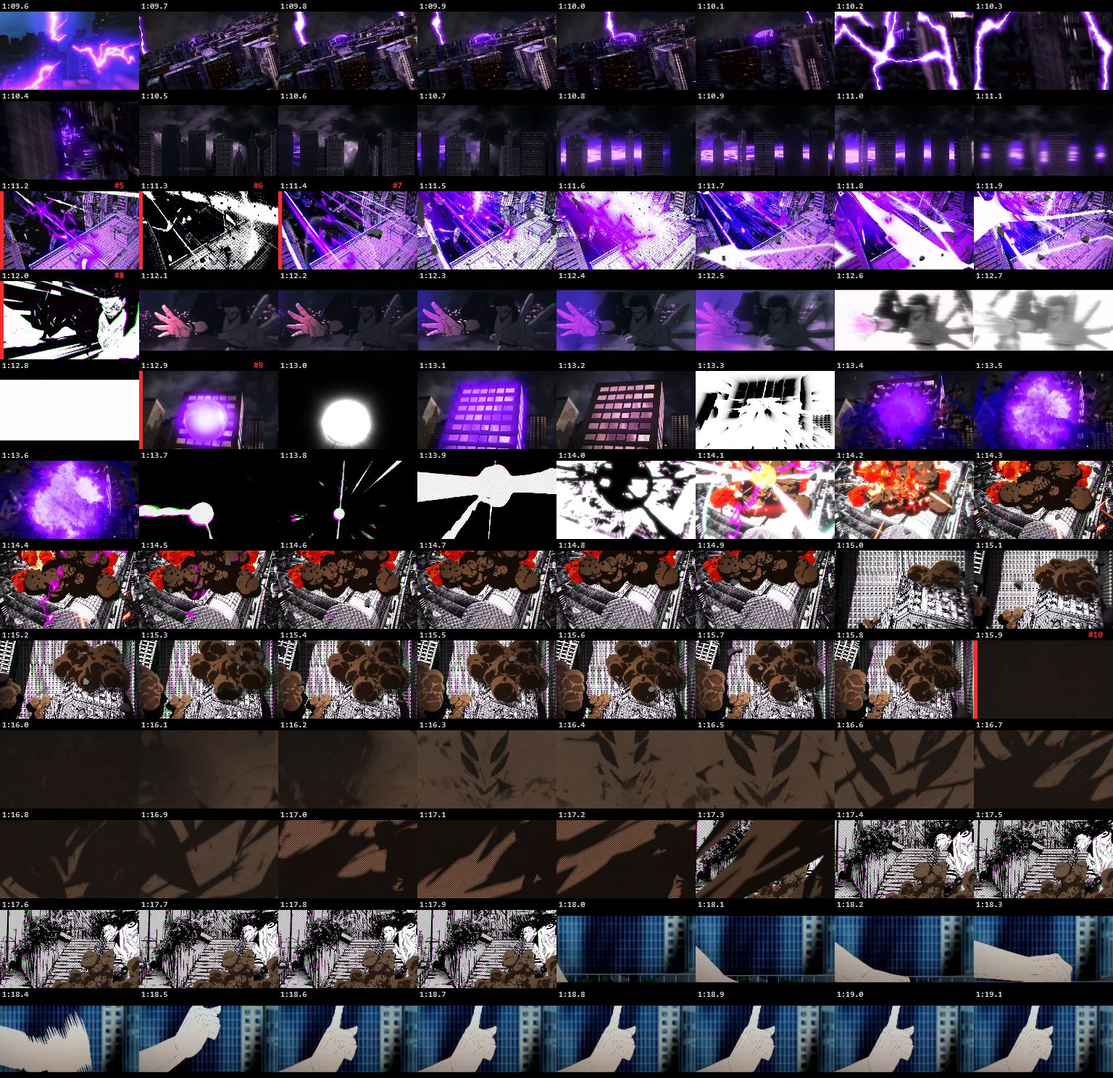
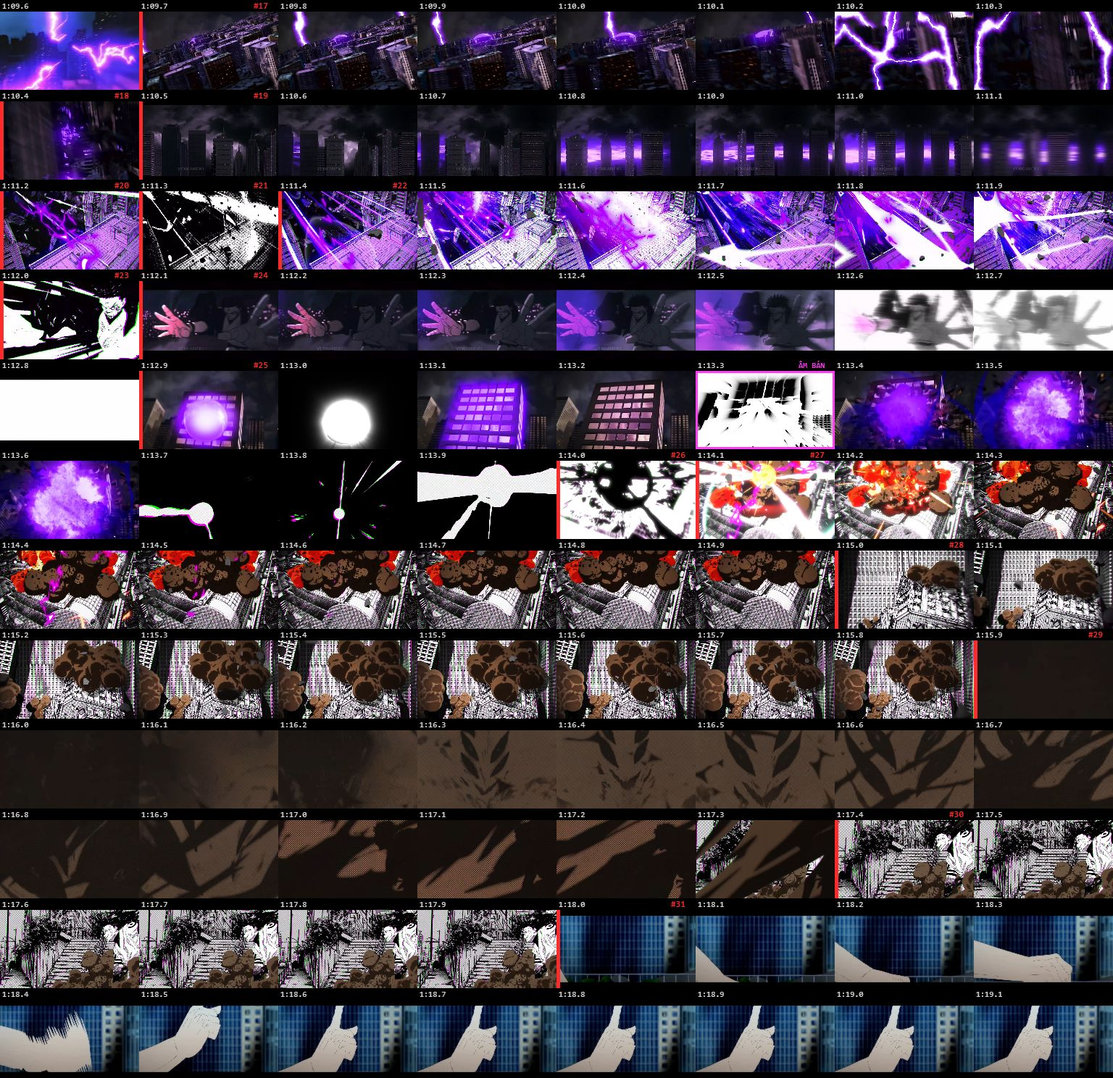
Máy dò chỗ cắt mới (độ giống cấu trúc + khung âm bản, tools/cat-quyet.js chỉnh ngưỡng ngoài máy); cắt lại 3 clip; docs: CineKit.cam (Ver 525) + CineKitFx (Ver 526) đã dựng bên repo game

diff --git a/tools/cat-canh.html b/tools/cat-canh.html
@@ -3,6 +3,7 @@
 <style>body{background:#111;color:#ddd;font:13px/1.4 monospace;padding:12px}pre{white-space:pre-wrap}</style></head>
 <body><pre id="log">Cắt cảnh — chạy qua tools/hoc-clip.js (src, id, a, b, fps trên URL).
 </pre>
+<script src="cat-quyet.js"></script>
 <script>
 // Trang CẮT CẢNH của Meme Anime Lab. Chạy trong Edge/Chrome (kể cả chạy ngầm), máy chủ tools/serve.js.
 // URL: /tools/cat-canh.html?src=videos/x.mp4&id=<id>&a=<giây đầu>&b=<giây cuối>&fps=<khung/giây lấy mẫu>
@@ -47,21 +48,27 @@ async function main() {
   const TW = 192, TH = Math.round(TW * VH / VW), LH = 16, COLS = 8, ROWS = 12, PER = COLS * ROWS;
   const sheets = [];
   const SW = 32, SH = 18, small = mk(SW, SH), sx = small.getContext('2d', { willReadFrequently: true });
-  const frames = []; let prev = null, prev2 = null; const scores = [];
+  // CẤU TRÚC: độ sáng 64x36 chuẩn hoá (trừ trung bình, chia độ lệch) → tương quan giữa 2 khung (ncc) không phụ thuộc màu tối / sáng / tông,
+  //   nên bắt được cắt ở bảng màu tối phẳng (kaiju-b) và không bị nét manga đen trắng đẩy ngưỡng; ncc ÂM = hình đảo đen trắng = khung ÂM BẢN.
+  const NW = 64, NH = 36, nsm = mk(NW, NH), nx = nsm.getContext('2d', { willReadFrequently: true });
+  const norm = () => { nx.drawImage(v, 0, 0, NW, NH); const e = nx.getImageData(0, 0, NW, NH).data, z = new Float32Array(NW * NH); let m = 0;
+    for (let i = 0; i < z.length; i++) { z[i] = 0.299 * e[i * 4] + 0.587 * e[i * 4 + 1] + 0.114 * e[i * 4 + 2]; m += z[i]; } m /= z.length;
+    let s = 0; for (let i = 0; i < z.length; i++) { z[i] -= m; s += z[i] * z[i]; } s = Math.sqrt(s / z.length); if (s > 1e-6) for (let i = 0; i < z.length; i++) z[i] /= s; return { z, sd: s / 255 }; };
+  const ncc = (a, b) => { if (!a || !b || a.sd < 0.03 || b.sd < 0.03) return null; let c = 0; for (let i = 0; i < a.z.length; i++) c += a.z[i] * b.z[i]; return c / a.z.length; };   // null = khung phẳng (trắng / đen xoá)
+  const frames = []; let prev = null, prev2 = null;
   for (let k = 0; k < n; k++) {
     const t = A + k / FPS; await seek(t);
     sx.drawImage(v, 0, 0, SW, SH); const d = sx.getImageData(0, 0, SW, SH).data;
-    const lum = new Float32Array(SW * SH), hist = new Float32Array(16); let L = 0;
-    for (let i = 0; i < SW * SH; i++) { const y = (0.299 * d[i * 4] + 0.587 * d[i * 4 + 1] + 0.114 * d[i * 4 + 2]) / 255; lum[i] = y; L += y; hist[Math.min(15, y * 16 | 0)]++; }
+    const hist = new Float32Array(16); let L = 0;
+    for (let i = 0; i < SW * SH; i++) { const y = (0.299 * d[i * 4] + 0.587 * d[i * 4 + 1] + 0.114 * d[i * 4 + 2]) / 255; L += y; hist[Math.min(15, y * 16 | 0)]++; }
     L /= SW * SH; for (let i = 0; i < 16; i++) hist[i] /= SW * SH;
-    const cur = { d: new Uint8ClampedArray(d), hist, L };
+    const cur = { d: new Uint8ClampedArray(d), hist, L, N: norm() };
     let score = 0;
     if (prev) { let md = 0; for (let i = 0; i < d.length; i += 4) md += Math.abs(d[i] - prev.d[i]) + Math.abs(d[i + 1] - prev.d[i + 1]) + Math.abs(d[i + 2] - prev.d[i + 2]);
       md /= (SW * SH * 3 * 255); let hd = 0; for (let i = 0; i < 16; i++) hd += Math.abs(hist[i] - prev.hist[i]); hd /= 2; score = 0.5 * md + 0.5 * hd; }
-    const recent = scores.slice(-24).sort((a, b) => a - b), med = recent.length ? recent[recent.length >> 1] : 0;
-    const cut = k > 0 && score > Math.max(0.2, 3.2 * med);
-    frames.push({ t: r2(t), score: r2(score), luma: r2(L), cut, flash: false, back: prev2 });
-    scores.push(score); prev2 = prev; prev = cur;
+    const c1 = prev ? ncc(cur.N, prev.N) : 1, c2 = prev2 ? ncc(cur.N, prev2.N) : 1;
+    frames.push({ t: r2(t), score: r2(score), luma: r2(L), sd: r2(cur.N.sd), c1: c1 == null ? null : r2(c1), c2: c2 == null ? null : r2(c2), cut: false, flash: false, neg: false });
+    prev2 = prev; prev = cur;
     // vẽ khung vào bảng
     const si = Math.floor(k / PER), j = k % PER;
     if (!sheets[si]) { const rows = Math.min(ROWS, Math.ceil((n - si * PER) / COLS)); const c = mk(COLS * TW, rows * (TH + LH)); const g = c.getContext('2d'); g.fillStyle = '#000'; g.fillRect(0, 0, c.width, c.height); sheets[si] = c; }
@@ -70,18 +77,7 @@ async function main() {
     g.fillStyle = '#ddd'; g.font = '11px monospace'; g.fillText(fmt(t), x + 3, y + 12);
     if (k % 30 === 0) log(`khung ${k}/${n}`);
   }
-  // khung loé: 2 lần "cắt" liền nhau mà khung sau giống khung trước-nữa → là khung impact / loé, không phải cắt máy
-  //   (loé có thể dài 1–3 khung mẫu: cắt ở k, cắt lại ở k+m, khung k+m giống khung k-1, các khung giữa sáng/tối hẳn)
-  for (let k = 1; k < frames.length - 1; k++) {
-    if (!frames[k].cut) continue;
-    for (let m = 1; m <= 3 && k + m < frames.length; m++) {
-      if (!frames[k + m].cut) continue;
-      const a = frames[k - 1], c = frames[k + m], mid = frames.slice(k, k + m);
-      if (Math.abs(a.luma - c.luma) < 0.08 && mid.every(f => Math.abs(f.luma - a.luma) > 0.15)) { frames[k].cut = false; frames[k + m].cut = false; mid.forEach(f => f.flash = true); }
-      break;
-    }
-  }
-  frames.forEach(f => delete f.back);
+  CatQuyet.decide(frames);   // tools/cat-quyet.js: cắt máy / loé / âm bản (chỉnh ngưỡng ngoài máy bằng Node trên data.json)
   // cảnh
   const shots = []; let s0 = A;
   for (let k = 1; k < frames.length; k++) if (frames[k].cut) { shots.push({ t0: s0, t1: frames[k].t }); s0 = frames[k].t; }
@@ -90,13 +86,14 @@ async function main() {
   let shotNo = 1;
   frames.forEach((f, k) => {
     if (f.cut) shotNo++;
-    if (!(f.cut || f.flash || k === 0)) return;
+    if (!(f.cut || f.flash || f.neg || k === 0)) return;
     const si = Math.floor(k / PER), j = k % PER, g = sheets[si].getContext('2d'), x = (j % COLS) * TW, y = Math.floor(j / COLS) * (TH + LH);
-    if (f.flash) { g.strokeStyle = '#ffd400'; g.lineWidth = 3; g.strokeRect(x + 1.5, y + LH + 1.5, TW - 3, TH - 3); g.fillStyle = '#ffd400'; g.font = 'bold 11px monospace'; g.fillText('FLASH', x + TW - 42, y + 12); }
+    if (f.neg) { g.strokeStyle = '#ff3df5'; g.lineWidth = 3; g.strokeRect(x + 1.5, y + LH + 1.5, TW - 3, TH - 3); g.fillStyle = '#ff3df5'; g.font = 'bold 11px monospace'; g.fillText('ÂM BẢN', x + TW - 50, y + 12); }
+    else if (f.flash) { g.strokeStyle = '#ffd400'; g.lineWidth = 3; g.strokeRect(x + 1.5, y + LH + 1.5, TW - 3, TH - 3); g.fillStyle = '#ffd400'; g.font = 'bold 11px monospace'; g.fillText('FLASH', x + TW - 42, y + 12); }
     else { g.fillStyle = '#ff2a2a'; g.fillRect(x, y + LH, 5, TH); g.font = 'bold 12px monospace'; g.fillText('#' + shotNo, x + TW - 34, y + 12); }
   });
   for (let i = 0; i < sheets.length; i++) await save(`sheet-${String(i + 1).padStart(2, '0')}.jpg`, await toBlob(sheets[i]));
-  log(`${shots.length} cảnh, ${frames.filter(f => f.flash).length} khung loé, ${sheets.length} bảng khung`);
+  log(`${shots.length} cảnh, ${frames.filter(f => f.flash).length} khung loé, ${frames.filter(f => f.neg).length} âm bản, ${sheets.length} bảng khung`);
 
   // ---------- bảng cảnh: đầu / giữa / cuối ----------
   const QW = 320, QH = Math.round(QW * VH / VW), LW = 150, PERS = 10;
@@ -168,8 +165,8 @@ async function main() {
   } catch (e) { log('không đọc được tiếng: ' + e.message); audio = { error: String(e.message) }; }
 
   await save('data.json', JSON.stringify({ id: ID, src: SRC, a: A, b: r2(B), fps: FPS, video: { w: VW, h: VH, dur: r2(dur) }, shots,
-    flashes: frames.filter(f => f.flash).map(f => f.t), frames: frames.map(f => [f.t, f.score, f.luma]), frameCols: ['t', 'score', 'luma'], audio }, null, 0));
-  window.__done = `OK ${shots.length} cảnh · ${frames.length} khung · ${sheets.length} bảng khung · flash ${frames.filter(f => f.flash).length} · onset ${audio && audio.onsets ? audio.onsets.length : '-'} · nhịp ${audio && audio.nhip ? audio.nhip.length : '-'} · lặng ${audio && audio.lang ? audio.lang.length : '-'}`;
+    flashes: frames.filter(f => f.flash).map(f => f.t), negs: frames.filter(f => f.neg).map(f => f.t), frames: frames.map(f => [f.t, f.score, f.luma, f.sd, f.c1, f.c2]), frameCols: ['t', 'score', 'luma', 'sd', 'c1', 'c2'], audio }, null, 0));
+  window.__done = `OK ${shots.length} cảnh · ${frames.length} khung · ${sheets.length} bảng khung · flash ${frames.filter(f => f.flash).length} · âm bản ${frames.filter(f => f.neg).length} · onset ${audio && audio.onsets ? audio.onsets.length : '-'} · nhịp ${audio && audio.nhip ? audio.nhip.length : '-'} · lặng ${audio && audio.lang ? audio.lang.length : '-'}`;
   log(window.__done);
 }
 main().catch(e => { window.__done = 'ERR ' + (e && e.message || e); log(window.__done); });

diff --git a/tools/cat-quyet.js b/tools/cat-quyet.js
@@ -1,0 +1,64 @@
+// Quyết định CẮT MÁY / KHUNG LOÉ / KHUNG ÂM BẢN từ đặc trưng từng khung — dùng chung: trang cat-canh.html (trình duyệt) + Node (chỉnh ngưỡng
+// ngoài máy trên data.json đã lưu: node tools/cat-quyet.js clips/<id>/data.json [giây cắt đúng, phẩy cách] → in khớp / sót / thừa).
+// Đặc trưng mỗi khung f: score (khác màu + khác histogram với khung trước, 0–1), luma (độ sáng TB), sd (độ tương phản),
+//   c1 / c2 = tương quan CẤU TRÚC với khung trước / trước-nữa (-1..1; null = khung phẳng như trắng xoá / đen xoá).
+// Kết quả gắn vào f: cut (khung đầu cảnh mới), flash (khung loé sáng/tối 1–3 khung), neg (khung ÂM BẢN: hình đảo đen trắng).
+(function (root) {
+  const P = {
+    colMin: 0.2, colK: 3.2,      // luật cũ theo màu: score > max(colMin, colK × trung vị 24 khung trước)
+    strAbs: 0.15, strDrop: 0.2, strSc: 0.05,    // luật cấu trúc: c1 < strAbs (hình gần như không còn giống), thấp hơn trung vị c1 24 khung trước ≥ strDrop
+                                 //   (anime vẽ 2–3 khung 1 hình nên trong 1 cảnh c1 nhảy 1 ↔ 0.2–0.5; đoạn hỗn loạn như nổ thì trung vị thấp → không báo nhầm), và màu cũng đổi (score > strSc)
+    settle: 0.3,                 // cắt thật thì hình mới ỔN ĐỊNH ngay: c1 của 1 trong 2 khung sau > settle (đoạn hỗn loạn — nổ, xoáy — khung nào cũng khác → không báo)
+    colStr: 0.6,                 // luật màu bị CHẶN khi cấu trúc vẫn giống (c1 ≥ colStr): chỉ đổi ánh sáng / chớp, cùng 1 shot (fight-1 mặt Sukuna 1:21)
+    negMax: -0.2,                // âm bản: c1 < negMax (đảo ngược khung trước) VÀ khung sau lật về (c1 sau < negMax hoặc c2 sau > sameShot)
+    sameShot: 0.5,               // khung sau âm bản mà c2 > sameShot → vẫn cảnh cũ (không phải cắt)
+  };
+  const med = a => { if (!a.length) return 0; const s = a.slice().sort((x, y) => x - y); return s[s.length >> 1]; };
+  function decide(frames, p) {
+    p = Object.assign({}, P, p || {});
+    const sc = [], cs = [];
+    for (let k = 0; k < frames.length; k++) {
+      const f = frames[k]; f.cut = false; f.flash = false; f.neg = false;
+      if (k === 0) { sc.push(0); cs.push(1); continue; }
+      const mc = med(sc.slice(-24)), mcc = med(cs.slice(-24));
+      const n1 = frames[k + 1], n2 = frames[k + 2];
+      const settled = !n1 || [n1, n2].some(x => x && (x.c1 == null || x.c1 > p.settle));
+      const byCol = f.score > Math.max(p.colMin, p.colK * mc) && (f.c1 == null || f.c1 < p.colStr);
+      const byStr = f.c1 != null && f.c1 < p.strAbs && mcc - f.c1 >= p.strDrop && f.score > p.strSc && settled;
+      if (f.c1 != null && f.c1 < p.negMax && n1 && n1.c1 != null && (n1.c1 < p.negMax || (n1.c2 != null && n1.c2 > p.sameShot))) f.neg = true;
+      // khung ngay sau âm bản: so với khung TRƯỚC âm bản (c2) — giống thì vẫn cảnh cũ
+      const pv = frames[k - 1];
+      if (pv.neg) f.cut = !(f.c2 != null && f.c2 > p.sameShot) && (f.c2 != null ? f.c2 < p.strAbs : byCol);
+      else f.cut = byCol || byStr;
+      if (f.neg) f.cut = false;   // âm bản không tính là cắt máy
+      sc.push(f.score); cs.push(f.c1 == null ? mcc : f.c1);
+    }
+    // khung loé (luật cũ): cắt ở k, cắt lại ở k+m (m ≤ 3), khung k+m giống khung k-1 về độ sáng, các khung giữa sáng / tối hẳn
+    for (let k = 1; k < frames.length - 1; k++) {
+      if (!frames[k].cut) continue;
+      for (let m = 1; m <= 3 && k + m < frames.length; m++) {
+        if (!frames[k + m].cut) continue;
+        const a = frames[k - 1], c = frames[k + m], mid = frames.slice(k, k + m);
+        if (Math.abs(a.luma - c.luma) < 0.08 && mid.every(f => Math.abs(f.luma - a.luma) > 0.15)) { frames[k].cut = false; frames[k + m].cut = false; mid.forEach(f => f.flash = true); }
+        break;
+      }
+    }
+    return frames;
+  }
+  const api = { P, decide };
+  if (typeof module !== 'undefined' && module.exports) module.exports = api; else root.CatQuyet = api;
+
+  // ---- Node: chỉnh ngưỡng trên data.json đã lưu ----
+  if (typeof require !== 'undefined' && require.main === module) {
+    const fs = require('fs'), [file, truth, pj] = process.argv.slice(2);
+    const D = JSON.parse(fs.readFileSync(file, 'utf8')), cols = D.frameCols;
+    const fr = D.frames.map(r => Object.fromEntries(cols.map((c, i) => [c, r[i]])));
+    if (fr[0].c1 === undefined) { console.error('data.json cũ (chưa có c1/c2) — chạy lại hoc-clip.js cho clip này'); process.exit(1); }
+    decide(fr, pj ? JSON.parse(pj) : null);
+    const cuts = fr.filter(f => f.cut).map(f => f.t), negs = fr.filter(f => f.neg).map(f => f.t), fl = fr.filter(f => f.flash).map(f => f.t);
+    console.log(`cắt ${cuts.length}: ${cuts.join(' ')}\nâm bản ${negs.length}: ${negs.join(' ')}\nloé ${fl.length}: ${fl.join(' ')}`);
+    if (truth) { const T = truth.split(',').map(Number), near = (x, L) => L.some(y => Math.abs(x - y) <= 0.11);
+      const ok = T.filter(x => near(x, cuts)), miss = T.filter(x => !near(x, cuts)), extra = cuts.filter(x => !near(x, T));
+      console.log(`ĐÚNG ${ok.length}/${T.length} · sót: ${miss.join(' ') || '-'} · thừa ${extra.length}: ${extra.join(' ') || '-'}`); }
+  }
+})(typeof window !== 'undefined' ? window : globalThis);

diff --git a/playbook/cong-thuc.md b/playbook/cong-thuc.md
@@ -8,7 +8,8 @@ Code viết theo API THẬT của `chaos-battle-lab/js/cine-kit.js` (đã soát 
 sprite `{..., white, smear:{dx,dy,dz,n}, aura:{col,k,preset}}`, `K.twos(t)`, `K.seg/lerp/clamp/hash`, `K.EASE.{lin,eio,eout,ein,eout3,ein3}`.
 Phim 2D (kiểu `film-fin1.js` / `film-l2pro.js`: `shots:[{t0:0,t1:DUR,a:{}}]`, mỗi cảnh tự vẽ với `cam(g,cx,cy,z,rot)` riêng) dùng được hết phần
 `impact / shake / screen / post` bên dưới; phần `shots` chỉ áp cho phim 2.5D.
-Mục đánh dấu **CHƯA CÓ — việc chờ** = cine-kit chưa có hàm, phải tự vẽ trong phim hoặc gom vào `CineKit.cam.*` / `js/vfx-gl.js` (xem cuối file).
+**LÀM SẴN (9/11/2026):** `chaos-battle-lab/js/cine-cam.js` → `CineKit.cam.*` (playCineKit tự tải) — mục nào có dòng "→ đã có" thì GỌI HÀM, khỏi chép code mẫu.
+Mục đánh dấu **CHƯA CÓ — việc chờ** = chưa có hàm, phải tự vẽ trong phim hoặc dựng thêm trong `js/vfx-gl.js` (xem cuối file).
 
 Mẫu chung cho các mốc thời gian (dùng ở nhiều mục):
 ```js
@@ -19,6 +20,7 @@ const hit=(t,a,amp,d)=>(t>=a&&t<a+d)?amp*(1-(t-a)/d):0;      // rung tắt dần
 ---
 
 ## 1. Khung ÂM BẢN 1 khung lúc va chạm / chuyển cảnh
+→ đã có: `impact: CineKit.cam.negFrames([giây…], 0.07, 'inv', [đòn mạnh → 'red' rồi 'inv'])`.
 Mục đích: đánh dấu cú va chạm / cắt máy bằng 1 khung đen-trắng đảo màu thay cho loé trắng. Mắt thấy "giật", não đọc là "trúng".
 Nguồn: `clips/fight-1` 1:07.9, 1:08.9, 1:11.3, 1:12.0, 1:13.3, 1:14.0, 1:25.8, 1:26.5, 1:31.8, 1:37.4, 1:48.3, 1:49.0 (12 lần / 60s).
 Nhịp: dài 1 khung vẽ = ~1/12s (0.06–0.08s). Dày nhất 1 cái / 0.5–1s, trung bình 1 cái / 5s. Hay đặt NGAY ĐẦU shot mới (khung đầu), hoặc khung cuối shot trước.
@@ -30,6 +32,7 @@ shake:t=> Math.max(...NEG.map(a=>hit(t,a,10,0.4)), 0),
 ```
 
 ## 2. CO LẠI RỒI BÙNG (đếm ngược trước vụ nổ lớn)
+→ đã có: bước c `C.implode(F,t,T.c)` · bước d `C.negFrames([T.c+0.3])` · bước e–f `C.birdToWorm(T.e,{tx,tz})` (máy).
 Mục đích: cho khán giả "hít vào" trước khi nổ — năng lượng thu về 1 điểm rồi mới bung, nổ to gấp đôi cảm giác.
 Nguồn: `clips/fight-1` 1:12.9–1:15.9 (Hollow Purple vào toà nhà).
 Nhịp (tổng ~3s):
@@ -53,9 +56,10 @@ world(F,t){ K.smoke(F,{x:0,z:0,y:0,t0:T.e,n:26,spread:260,rise:180,life:1.6,size
   K.debris(F,{x:0,z:0,y:40,t0:T.e,n:30,speed:520,size:14,life:1.4,seed:3}); },
 post(F,t){ return {shocks:t>=T.e&&t<T.e+0.6?[{x:0,y:0,z:0,r:40+600*K.seg(t,T.e,T.e+0.6),w:40,str:26*(1-K.seg(t,T.e,T.e+0.6))}]:[]}; },
 ```
-Lửa đỏ-cam đặc kiểu manga (khối có viền) → **CHƯA CÓ**: `K.smoke` chỉ có khói mềm; tạm dùng `tint` nâu + `K.flash(F,a,'rgb(255,90,30)')` mờ.
+Lửa đỏ-cam đặc kiểu manga (khối có viền) → **đã có** `CineKitFx.blast(F,{x,y,z,t0,size:170})` (js/vfx-manga.js).
 
 ## 3. WIPE bằng MÀU / BÓNG / THÂN QUÁI / MẢNH VỠ (chuyển cảnh không cắt cứng)
+→ đã có: `C.wipeBlob(F,t,a,0.2,col)` · `C.wipeLeaves(F,t,a,0.2,{col,dir})` (thân quái lướt: đổi col + d) — cả 2 che kín đúng a + d/2 = chỗ cắt máy.
 Mục đích: nối 2 shot bằng 1 vật che kín khung trong 0.1–0.3s, vừa đổi cảnh vừa giữ đà.
 Nguồn:
 - Màu nhấn phủ kín 0.2s (vết loang tím tràn từ góc): `clips/fight-1` 1:04.5.
@@ -76,6 +80,7 @@ Bóng lá cây / thân quái lướt: dùng 1 ảnh tối (silhouette) vẽ tron
 Bóng lá đổ trên nền nâu (halftone) → **CHƯA CÓ** ảnh/hàm; tạm vẽ vài hình lá đen alpha 0.8 bằng path.
 
 ## 4. KẾT ẤN ĐỐI XỨNG + MẶT CHIA ĐÔI
+→ đã có: máy `C.mirror(t0,{A,B,cam,flip})` · mặt chia đôi `panels: t=>C.splitFace(t,a,1.0,camA,camB)` + `C.splitTint(F,t,a,1.0)` trong screen.
 Mục đích: 2 phe ra chiêu "soi gương" nhau → khán giả so sánh trực tiếp. Mỗi phe 1 MÀU riêng giữ suốt phim (Gojo xanh lam/tím, Sukuna đỏ).
 Nguồn: `clips/fight-1` 1:43.6–1:45.2 (A kết ấn 0.7s: chữ thập ngắm đỏ → xoáy đỏ · wipe bóng lá 0.2s · B cùng bố cục, chữ thập tím → xoáy xanh 0.7s);
 mặt chia đôi 1:24.0–1:25.0 (1.0s, nửa trái Sukuna nền đỏ, nửa phải Gojo nền xanh, vạch dọc giữa).
@@ -90,9 +95,10 @@ panels:t=> (t>=T.split&&t<T.split+1.0) ? [
 screen(F,t){ if(t>=T.split&&t<T.split+1.0){ const g=F.g; g.save(); g.globalCompositeOperation='multiply';
   g.fillStyle='rgba(255,60,50,0.35)'; g.fillRect(0,0,F.VW/2,F.VH); g.fillStyle='rgba(60,140,255,0.35)'; g.fillRect(F.VW/2,0,F.VW/2,F.VH); g.restore(); } },
 ```
-Chữ thập ngắm (2 vạch + vòng tròn) vẽ được bằng path trong `screen`. **XOÁY MÀU** sau lưng (vòng xoắn đỏ / xanh-hồng quay) → **CHƯA CÓ** — việc chờ cho `vfx-gl.js`.
+Chữ thập ngắm (2 vạch + vòng tròn) vẽ được bằng path trong `screen`. XOÁY MÀU sau lưng → **đã có** `CineKitFx.swirl(F,t,{colA:'255,30,40',colB:'90,170,255'})` — vẽ TRƯỚC nhân vật.
 
 ## 5. MATCH CUT đổi màu mắt (cùng bố cục mặt)
+→ đã có máy: `C.pushIn(t0,{d:1.6})` 2 lần cùng tham số (đổi mắt ở shot 2).
 Mục đích: báo "đổi phe / thức tỉnh" mà không cần thoại — giữ nguyên bố cục, chỉ đổi màu điểm sáng.
 Nguồn: `clips/fight-1` 1:20.8–1:24.0 — cận mặt mắt ĐỎ, máy đẩy vào rất chậm 1.6s (ánh sáng chớp liên tục) → nhoè 0.1s → cùng khung, mắt XANH 1.6s → mặt chia đôi (mục 4).
 ```js
@@ -105,6 +111,7 @@ screen(F,t){ if(Math.abs(t-(T.m+1.6))<0.05) K.flash(F,0.9,'#fff'); },   // nhoè
 Chớp sáng nền liên tục (máy dò tách sai thành 6 cảnh) = `K.flash(F, 0.15*hash(Math.floor(t*12)), '#cfe4ff')`.
 
 ## 6. ĐƯỜNG HẦM TỐC ĐỘ khi bị đánh văng xa
+→ đã có: `C.speedTunnel(F,t,a,0.8)` (zoom hậu kỳ vẫn tự thêm trong post nếu muốn).
 Mục đích: nối "trúng đòn" với "bay ra toàn cảnh thành phố" — 0.8s tia toả tâm + trắng dần, rồi cắt sang toàn cảnh sáng.
 Nguồn: `clips/fight-1` 1:28.8–1:29.6 (khung kính vỡ 0.5s trước đó → đường hầm 0.8s → toàn cảnh thành phố ban ngày 1.1s, toà nhà + người bay).
 ```js
@@ -116,6 +123,7 @@ post(F,t){ return (t>=T.tun&&t<T.tun+0.8)?{zoom:{sx:F.VW/2,sy:F.VH/2,k:1+0.4*K.s
 ```
 
 ## 7. TỈ LỆ NHẢY CỰC ĐOAN trong đánh tay đôi
+→ đã có máy: `C.scaleJump(t0,{tx,ty,tz,steps})` (mặc định đúng chuỗi fight-1 G) · `C.orbit(t0,{cut:0.15})` · `C.chargeFollow` · ease `brake`.
 Mục đích: combo cận chiến đọc rõ + có lực: xen RẤT XA (nhân vật nhỏ, nền trắng trống) với CỰC CẬN (nắm đấm che nửa khung).
 Nguồn: `clips/fight-1` 1:55.2–2:00.0 (fan-animation đen trắng). Chuỗi: xa 0.2 → cận mặt 0.2 → rất xa 0.8 → đối thủ lao 0.3 → nắm đấm che khung 0.3
 → đá cận + tia tốc độ 0.2 → combo máy XOAY quanh 2 người 1.0 → vật 0.8 → đập xuống: SMEAR DỌC 0.5 → đất vỡ 0.3.
@@ -128,9 +136,10 @@ shots:[ {t0:a,     t1:a+0.2, a:{tx:0,ty:80,dist:1400,pitch:8}},                 
         {t0:a+1.7, t1:a+2.7, a:{tx:0,ty:90,dist:320,yaw:-60},b:{yaw:60},ease:'lin'} ],   // xoay quanh lúc combo
 world(F,t){ K.sprite(F,{img:F.I.gojo,x:X(t),z:0,y:Y(t),h:100,smear:t>=T.slam&&t<T.slam+0.15?{dx:0,dy:120,dz:0,n:6}:null}); },
 ```
-`smear` của sprite chỉ là bóng mờ lặp theo vận tốc. SMEAR DỌC thật (ảnh kéo thành vệt sọc) → **CHƯA CÓ** — việc chờ "lưới biến dạng" trong `vfx-gl.js`.
+`smear` của sprite chỉ là bóng mờ lặp. SMEAR DỌC thật (ảnh kéo thành vệt sọc) → **đã có** `CineKitFx.smear(F,F.I.gojo,x,y,w,h,{dy:260})`.
 
 ## 8. BỘ BA GIỚI THIỆU QUÁI KHỔNG LỒ
+→ đã có máy: `C.slideAlong(t0,{ty,ty1})` → `C.wormHold(t0+2.75)` → cận mặt người (shot thường) · kaiju-b: `C.pushIn(t0,{d:2.9})`.
 Mục đích: cho thấy quái TO + đáng sợ trong 5–6s, không cần hiệu ứng.
 Nguồn A — `clips/kaiju-a` (Avengers): cực cận lướt dọc thân 2.75s → toàn cảnh GÓC GIUN, 2 toà nhà kẹp 2 mép, quái nhỏ trên trời, ĐỨNG YÊN 2.0s → cận mặt người ngước 0.25s+.
 Nguồn B — `clips/kaiju-b` (Cửu Vĩ): cận mặt + MẮT BẬT SÁNG 1.5s → toàn cảnh giữa 2 dãy nhà, trăng sau lưng, đẩy vào rất chậm 2.9s → dân chạy ở tiền cảnh 0.3s.
@@ -142,9 +151,10 @@ world(F,t){ K.sprite(F,{img:F.I.monster,x:0,z:600,y:250,h:900,shadow:false}); /*
 screen(F,t){ if(t<2.75) K.flash(F,0.25,'#fff'); K.vignette(F,0.6); },   // ngược sáng: khối tối + viền sáng
 ```
 Mắt bật sáng (B): sprite quái + 2 đốm glow đỏ hiện ở giây 0.7 của shot, `a` tăng trong 0.1s.
-Ngược sáng thật (quái thành khối tối có viền sáng) → tạm dùng `K.tinted` màu tối + aura trắng mảnh; làm đúng → **CHƯA CÓ** (rim light trong `vfx-gl.js`).
+Ngược sáng thật (quái thành khối tối có viền sáng) → **đã có** `CineKitFx.rimLight(F,F.I.friend,x,y,w,h,{col:'255,60,40'})` (bỏ `dir` = sáng bao quanh, `dir:-90` = sáng từ trên).
 
 ## 9. TĨNH TRƯỚC PHÁ + KẾT BẰNG HẬU QUẢ
+→ máy: shot thường (đứng yên, cùng tham số 2 shot); hậu quả `C.wormHold`/shot đứng yên 2.8s.
 Mục đích: cho thấy vật còn nguyên trong 1 nhịp ngắn → khán giả kịp "thương" nó → phá. Kết đoạn phá huỷ bằng shot hậu quả đứng yên dài để lắng.
 Nguồn: `clips/kaiju-b` 1:16.3 (tháp canh đứng trước trăng tròn, đứng yên 0.4s) → 1:16.7 đuôi quét qua, tháp gãy 1.1s (cùng máy) … 1:20.2–1:23.0 đống đổ nát, người nhỏ li ti, đứng yên 2.8s.
 ```js
@@ -156,6 +166,7 @@ shake:t=>hit(t,T.still+0.55,9,0.6),
 ```
 
 ## 10. KHOẢNG THỞ sau vụ nổ lớn
+→ đã có: `C.restBeat(F,t,a,1.5)` (nền nâu + bóng lá + viền tối; halftone vẫn chưa có).
 Mục đích: sau đỉnh cao trào phải có 1.4–1.6s TĨNH, tông trầm, không nhân vật rõ mặt → reset mắt người xem trước đoạn mới.
 Nguồn: `clips/fight-1` 1:15.9–1:17.3 (sau nổ Hollow Purple) và 1:38.2–1:39.7 (sau nổ đỏ): nền nâu sẫm + bóng lá cây đung đưa chậm, hạt halftone.
 Đoạn sau mở bằng shot đứng yên, nhân vật bình thản (giơ ngón cái / đứng nhìn) — tương phản với nổ.
@@ -165,18 +176,18 @@ screen(F,t){ if(t>=T.rest&&t<T.rest+1.5){ const g=F.g; K.flash(F,1,'#3a2a1e');
     g.beginPath(); g.ellipse(x,y,90+60*K.hash(s+2),22,K.hash(s+3)*3,0,Math.PI*2); g.fill(); }   // bóng lá
   K.vignette(F,0.7); } },
 ```
-Lớp halftone (chấm manga) trên nền → **CHƯA CÓ** — việc chờ (`post` shader).
+Lớp halftone → **đã có** `CineKitFx.halftone(F,{mode:'luma',dot:5,paper:'#f4f1ea'})`; đen trắng giữ 1 màu nhấn → `CineKitFx.mangaBW(F,{keep:'#2878ff'})` (gọi CUỐI `def.screen`).
 
 ---
 
-## Chưa có trong cine-kit — việc chờ (gom theo nơi nên dựng)
-| thiếu | dùng ở mục | nên dựng ở |
+## Hiệu ứng manga — `CineKitFx` (repo game `js/vfx-manga.js`, Ver 526, canvas 2D, chạy cả PC / Mac / xuất video offline)
+Trong file phim dùng `window.CineKitFx` (`CineKit.fx` gắn chậm ~20ms). Gọi trong `def.screen`; toạ độ = đơn vị logic của phim.
+| hàm | dùng ở mục | ms/khung 1280×720 (CPU, chậm nhất) |
 |---|---|---|
-| SMEAR DỌC thật (ảnh kéo thành vệt sọc khi đập / lao) | 7 | `vfx-gl.js` — lưới biến dạng ảnh 2D (đã có trong việc chờ CLAUDE.md) |
-| XOÁY MÀU sau lưng lúc kết ấn / mở lãnh địa | 4 | `vfx-gl.js` (shader xoáy, tham số màu A/B) |
-| LỚP HALFTONE / chấm manga + nền đen trắng 1 màu nhấn | 2, 10 | `def.post` → `vfx-gl.js` |
-| LỬA nổ khối đặc kiểu manga (viền đen, đỏ-cam) | 2 | thêm kiểu cho `K.smoke` hoặc hàm `K.blast` mới |
-| RIM LIGHT / ngược sáng cho quái | 8 | `vfx-gl.js` |
-| WIPE làm sẵn (loang màu, bóng lá, vật che) | 3, 10 | `CineKit.cam.wipe*` cùng bộ góc máy làm sẵn |
-| Bộ góc máy: lướt dọc thân, xoay quanh combo, lao vào máy fov rộng, góc giun đứng yên | 7, 8 | `CineKit.cam.*` (việc chờ CLAUDE.md) |
-| Nhịp: giữ → bật, co lại → bùng | 2 | bộ nhịp chuyển động (gom chung `CineKit.cam.*`) |
+| `smear(F,img,x,y,w,h,{dx,dy,n,streak,lines})` — vệt nhoè sọc khi đập / lao | 7 | 9.6 |
+| `swirl(F,t,{cx,cy,r,colA,colB,colC,arms,speed})` — xoáy màu kết ấn / lãnh địa | 4 | 11.8 |
+| `halftone(F,{mode:'flat' hoặc 'luma',dot,col,paper})` — chấm manga | 2, 10 | 9.6–14.3 |
+| `mangaBW(F,{keep,tol,scale})` — đen trắng, giữ 1 màu nhấn | 4 (C1/C3 fight-1) | 21.9 (`scale:0.25` → 16.5) |
+| `blast(F,{x,y,z,t0,life,size})` — lửa nổ khối đặc viền đen → khói nâu | 2 | 0.7 |
+| `rimLight(F,img,x,y,w,h,{col,dir,dark})` — quái ngược sáng | 8 | 11.2 |
+Chưa đo trên GPU thật; `mangaBW` nặng nhất → chỉ bật trong shot cần.

diff --git a/CLAUDE.md b/CLAUDE.md
@@ -21,12 +21,12 @@ Claude KHÔNG xem được video, KHÔNG nghe được tiếng → xem chuỗi K
 Anh hay gửi công cụ / add-on tìm trên mạng (Blender, Unity, AI xem video…). KHÔNG cài công cụ ngoài vào quy trình —
 xem nó làm được gì, lấy làm THAM KHẢO, rồi TỰ DỰNG LẠI bằng công cụ của mình (cine-kit trong trình duyệt, Node thuần, chạy được cả PC lẫn Mac).
 Tên công cụ AI liệt kê hay bị bịa → tra lại trước khi nói với anh.
-Việc đang chờ: bộ GÓC MÁY LÀM SẴN `CineKit.cam.*` (lia giật / whip pan, dolly zoom, lao theo đòn + khựng, xoay quanh lúc gồng chiêu…, ý từ add-on Cinepack của Blender)
-— dựng SAU khi học vài clip, chỉnh số theo nhịp anime thật (ghi vào `playbook/cong-thuc.md`).
-Cũng đang chờ (từ đợt tham khảo 9/11, tự dựng lại, không cài):
-- LƯỚI BIẾN DẠNG ảnh 2D (ý Stretchy Studio / Spine / Live2D): 1 ảnh tự dẹt khi tiếp đất, kéo dài theo hướng lao (smear thật), nghiêng, thở — WebGL trong `chaos-battle-lab/js/vfx-gl.js`.
-- BỘ NHỊP CHUYỂN ĐỘNG làm sẵn (ý AnimAide): giữ rồi bật (hold → snap), vượt quá rồi bật lại, hãm gấp — gom chung với `CineKit.cam.*`.
-- Mẫu ghi chú shot chặt hơn cho `phan-tich.md` (ý bộ dữ liệu AnimeShooter: nhân vật / góc máy / hành động mỗi shot).
+ĐÃ DỰNG (9/11, repo game, tự dựng lại từ các ý tham khảo — không cài công cụ ngoài):
+- `js/cine-cam.js` → `CineKit.cam.*`: góc máy làm sẵn (slideAlong, orbit, wormHold, birdToWorm, pushIn, whip, dollyZoom, chargeFollow, scaleJump, mirror),
+  nhịp chuyển động (`ease:'holdSnap'|'overshoot'|'brake'`), hiệu ứng nhịp (negFrames, implode, wipeBlob, wipeLeaves, speedTunnel, restBeat, splitFace). Ver 525.
+- `js/vfx-manga.js` → `CineKitFx`: smear thật, swirl, halftone, mangaBW, blast, rimLight (canvas 2D). Ver 526.
+- Cách dùng: skill `dung-phim` repo game mục "CineKit.cam" + `playbook/cong-thuc.md`. Số nhịp lấy từ `playbook/nhip.md`.
+Còn chờ: lưới biến dạng ảnh 2D THẬT (dẹt khi tiếp đất, thở, nghiêng — WebGL `vfx-gl.js`, phiên game) · mẫu ghi chú shot chặt hơn (ý AnimeShooter).
 Đã xem + bỏ: AnimationGPT (khung xương 3D, cần Linux + RTX 4090), GhibliGenerator (đá / cảnh Blender, 2022), Mocap-Anything / Motion2MixamoRig (cần xương 3D).
 
 ## Cấu trúc
@@ -52,7 +52,7 @@ Cũng đang chờ (từ đợt tham khảo 9/11, tự dựng lại, không cài)
    - `--a/--b` = giây đầu/cuối (bỏ trống = cả video) · `--fps` 6 cảnh thường, 10–12 đoạn đánh nhanh (>900 khung thì tự hạ) · chạy lại cùng `--id` = ghi đè ảnh cũ.
    - Mất ~1–3 phút cho 30s ở 10 khung/giây. Cổng: máy chủ 8790, trình duyệt ngầm 9466 (profile riêng `mal-browser-profile` trong thư mục tạm, KHÔNG đụng trình duyệt của phiên khác).
 3. **Claude xem**: Read `shots-NN.jpg` trước (toàn cục), rồi `sheet-NN.jpg` (chi tiết từng khung), `audio-01.png` (tiếng bật khớp khung nào).
-   Vạch ĐỎ + `#n` = khung đầu cảnh mới · viền VÀNG `FLASH` = khung loé / impact frame (không tính là cắt máy) · cột chữ = giây trong video gốc.
+   Vạch ĐỎ + `#n` = khung đầu cảnh mới · viền VÀNG `FLASH` = khung loé · viền HỒNG `ÂM BẢN` = khung đảo đen trắng (cả 2 không tính là cắt máy) · cột chữ = giây trong video gốc.
    `audio-01.png`: vạch xanh dài = tiếng bật mạnh (onset) · vạch xanh ngắn = nhịp (tiếng bật trong nhạc to đều) · dải vàng = khoảng lặng.
    ⚠ Clip AMV / lồng nhạc (nhạc nền ghép đè lên phim) thì KHÔNG học tiếng — chỉ học HÌNH (anh dặn 9/11/2026). Chỉ học tiếng khi clip giữ âm thanh đánh nhau gốc.
    Máy dò chỗ cắt có thể nhầm ở đoạn máy lia cực nhanh / chớp liên tục → Claude soát lại bằng mắt, ghi đính chính trong `phan-tich.md`.
@@ -61,11 +61,15 @@ Cũng đang chờ (từ đợt tham khảo 9/11, tự dựng lại, không cài)
 
 ## Tự kiểm công cụ (bắt buộc lần đầu ở máy mới, hoặc sau khi sửa tools/)
 `... tools/hoc-clip.js --test` → tự tạo video 6s biết trước đáp án → `clips/_test/` (gitignore). ĐÚNG khi in:
-`OK 3 cảnh · 62 khung · 1 bảng khung · flash 2 · onset 3 · nhịp 3 · lặng 0` (cắt 2.0s + 4.0s, loé 3.0–3.1s, tiếng bật ~1.0 / 2.48 / 4.48s).
+`OK 3 cảnh · 62 khung · 1 bảng khung · flash 2 · âm bản 0 · onset 3 · nhịp 3 · lặng 0` (cắt 2.0s + 4.0s, loé 3.0–3.1s, tiếng bật ~1.0 / 2.48 / 4.48s).
 `--test` luôn chạy 10 khung/giây (bỏ qua `--fps`) để đáp án cố định.
 Dò lỗi 1 trang: `... tools/hoc-clip.js --page tools/<trang>.html` (in `window.__done`).
 
 ## Bài học khi dựng công cụ (PC 9/11) — đừng làm lại
+- Dò chỗ cắt: luật quyết định ở `tools/cat-quyet.js` (dùng chung trang + Node). Chỉnh ngưỡng NGOÀI MÁY không cần chạy lại video:
+  `node tools/cat-quyet.js clips/<id>/data.json <giây cắt đúng, phẩy cách> ['{"strAbs":0.15}']` → in đúng / sót / thừa. Ngưỡng hiện tại chỉnh trên
+  _test (2/2) · kaiju-b (12 cảnh / 14 đếm tay, 0 thừa) · fight-1 (~57/78, ~10 thừa — trước là 65/82 nhưng 25 thừa + 24 âm bản sai).
+  Anime vẽ 2–3 khung 1 hình → trong 1 cảnh độ giống cấu trúc c1 nhảy 1 ↔ 0.2–0.5; cắt thật c1 ≈ 0 và hình mới ổn định ngay 1–2 khung sau.
 - Edge chạy ngầm: `MediaRecorder` ghi ra **0 byte** → video thử phải mã hoá bằng **WebCodecs** (VP8 + Opus) rồi tự đóng gói WebM (`_test-video.html`). WebM tự ghép phải có Duration + Cues, không thì không tua được.
 - Khung đầu lấy trước sự kiện `loadeddata` ra màn đen → báo nhầm 1 cảnh 0.1s (đã sửa: chờ `loadeddata`).
 - Máy chủ phải hỗ trợ Range (video tua) và không sập khi file rỗng; lần chạy lỗi giữa chừng để sót trình duyệt giữ cổng 9466 → `hoc-clip.js` luôn `--stop` trước khi mở.

diff --git a/VIEC.md b/VIEC.md
@@ -16,7 +16,7 @@ Mac muốn xem lại video gốc: tải lại bằng yt-dlp theo `nguon` + `doan
 Công cụ (9/11):
 - `--yt "<link>"` tải YouTube không cần ffmpeg (hình ≤720p + tiếng m4a, 2 file), `--a/--b` nhận `1:47`.
 - Tiếng: ngoài `onset` (bật mạnh) có thêm `nhip` (tiếng bật trong nhạc to đều, dải cao, ngưỡng tự chỉnh) và `lang` (khoảng lặng giữa đoạn to).
-- `--test` luôn chạy 10 khung/giây. Đáp án: `OK 3 cảnh · 62 khung · 1 bảng khung · flash 2 · onset 3 · nhịp 3 · lặng 0`.
+- `--test` luôn chạy 10 khung/giây. Đáp án: `OK 3 cảnh · 62 khung · 1 bảng khung · flash 2 · âm bản 0 · onset 3 · nhịp 3 · lặng 0`.
 
 ## Mac — làm khi mở phiên lần đầu ở Mac
 1. `git pull` (repo này + `chaos-battle-lab` nằm cạnh).
@@ -24,12 +24,16 @@ Công cụ (9/11):
 3. Mac có yt-dlp + ffmpeg: nạp YouTube dùng `--yt` như PC (đã viết chạy cả 2 máy, nhưng CHƯA thử trên Mac), hoặc lệnh yt-dlp tải đoạn trong CLAUDE.md.
 4. Video gốc trên Mac để ở `videos/` trong repo (gitignore) — `serve.js` tự chọn.
 
+## Đã xong đợt công cụ 9/11 (PC)
+- [x] Máy dò chỗ cắt mới: độ giống CẤU TRÚC (`tools/cat-quyet.js`, chỉnh ngưỡng ngoài máy bằng Node) + dò khung ÂM BẢN (viền hồng). kaiju-b 2 → 12/14 cảnh.
+- [x] Repo game Ver 525 `js/cine-cam.js` → `CineKit.cam.*` (góc máy, nhịp holdSnap/overshoot/brake, implode, wipe, đường hầm, khoảng thở, chia đôi).
+- [x] Repo game Ver 526 `js/vfx-manga.js` → `CineKitFx` (smear, swirl, halftone, mangaBW, blast, rimLight).
+
 ## Việc còn mở
-- [ ] Máy dò chỗ cắt sai nhiều ở nét manga đen trắng / halftone (fight-1: gộp nhiều shot) và ở bảng màu tối phẳng (kaiju-b: chỉ ra 2/14 cảnh) →
-      cần ngưỡng tự chỉnh theo đoạn (như `nhip`), không dùng 1 ngưỡng cố định. Máy chưa bắt khung ÂM BẢN (đảo màu) — chỉ bắt loé sáng.
-- [ ] Bộ góc máy làm sẵn `CineKit.cam.*` + bộ nhịp chuyển động (hold → snap, vượt rồi bật lại) — số đã có trong `nhip.md`; dựng trong repo game.
-- [ ] Những thứ cine-kit chưa có (xem mục "chưa có" trong `cong-thuc.md`) — báo phiên game, KHÔNG sửa repo game từ đây.
-- [ ] Lưới biến dạng ảnh 2D (vfx-gl), mẫu ghi chú shot chặt hơn — xem CLAUDE.md "đang chờ".
+- [ ] CHƯA phim nào dùng `CineKit.cam` / `CineKitFx` — lần dựng đầu (đề xuất: làm lại Final Part 1 cảnh 2 Friend phá thành phố, rồi Gojo vs Pain cảnh 4–5) sẽ lộ lỗi.
+- [ ] Máy dò vẫn sót ở chỗ chuyển bằng mảnh vụn / nhoè và đoạn hỗn loạn (nổ, xoáy) — vẫn soát bằng mắt, ghi đính chính.
+- [ ] Hiệu ứng `CineKitFx` đo trên CPU 10–22 ms/khung — chưa đo GPU thật; trên Mac đo lại.
+- [ ] Lưới biến dạng ảnh 2D thật (dẹt / thở / nghiêng, WebGL) · mẫu ghi chú shot chặt hơn.
 - [ ] `clips/fight-2/` rỗng — hỏi anh còn muốn nạp đoạn nào.
 
 ## Nhật ký

diff --git a/clips/kaiju-b/phan-tich.md b/clips/kaiju-b/phan-tich.md
@@ -34,5 +34,5 @@ Rút ra (→ đã ghi vào playbook/luat.md "Quái khổng lồ", "Phá huỷ di
 Áp cho Final Part 1 cảnh 2 (Friend phá thành phố): mở cận mặt Friend, mắt loé → toàn cảnh Friend giữa 2 toà nhà, trăng sau lưng →
 meme chạy ở tiền cảnh 0.3s → tháp / biển hiệu đứng yên 0.4s → bị quét gãy → kết bằng đống đổ nát đứng yên.
 
-Đính chính máy dò: máy chỉ tìm ra 2 cảnh (1:06.0 và 1:16.3). Thực tế là 14 cảnh — bảng màu tối, phẳng, 2 tông nên điểm khác biệt
+Đính chính máy dò: bản cũ chỉ tìm ra 2 cảnh (1:06.0 và 1:16.3); bản mới (9/11, tools/cat-quyet.js) ra 12 cảnh, sót 70.7 · 72.2 · 74.0 · 79.3 (mảnh vụn / chuyển chậm). Thực tế là 14 cảnh — bảng màu tối, phẳng, 2 tông nên điểm khác biệt
 giữa các khung thấp, ngưỡng không bắt được. Bảng trên đếm bằng mắt từ `sheet-01/02.jpg`, chỗ cắt chính xác ±0.1s.
